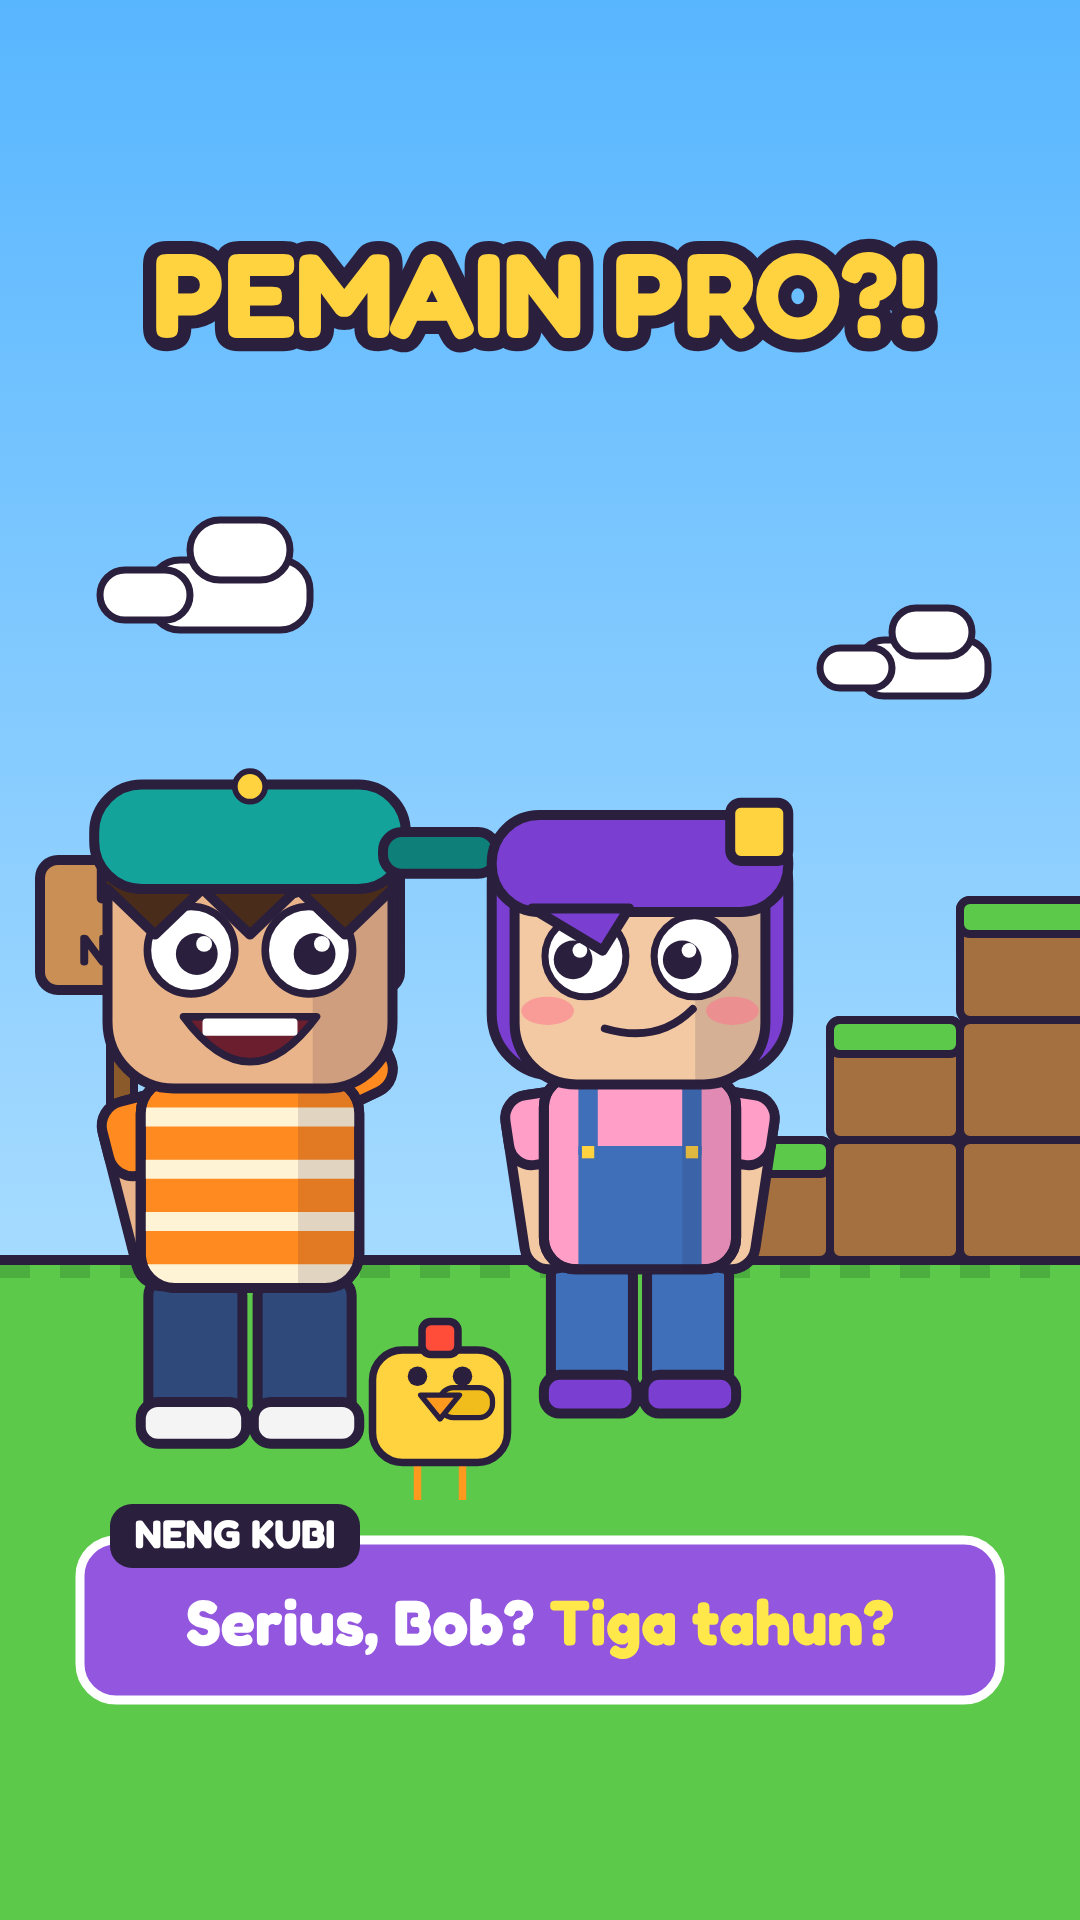
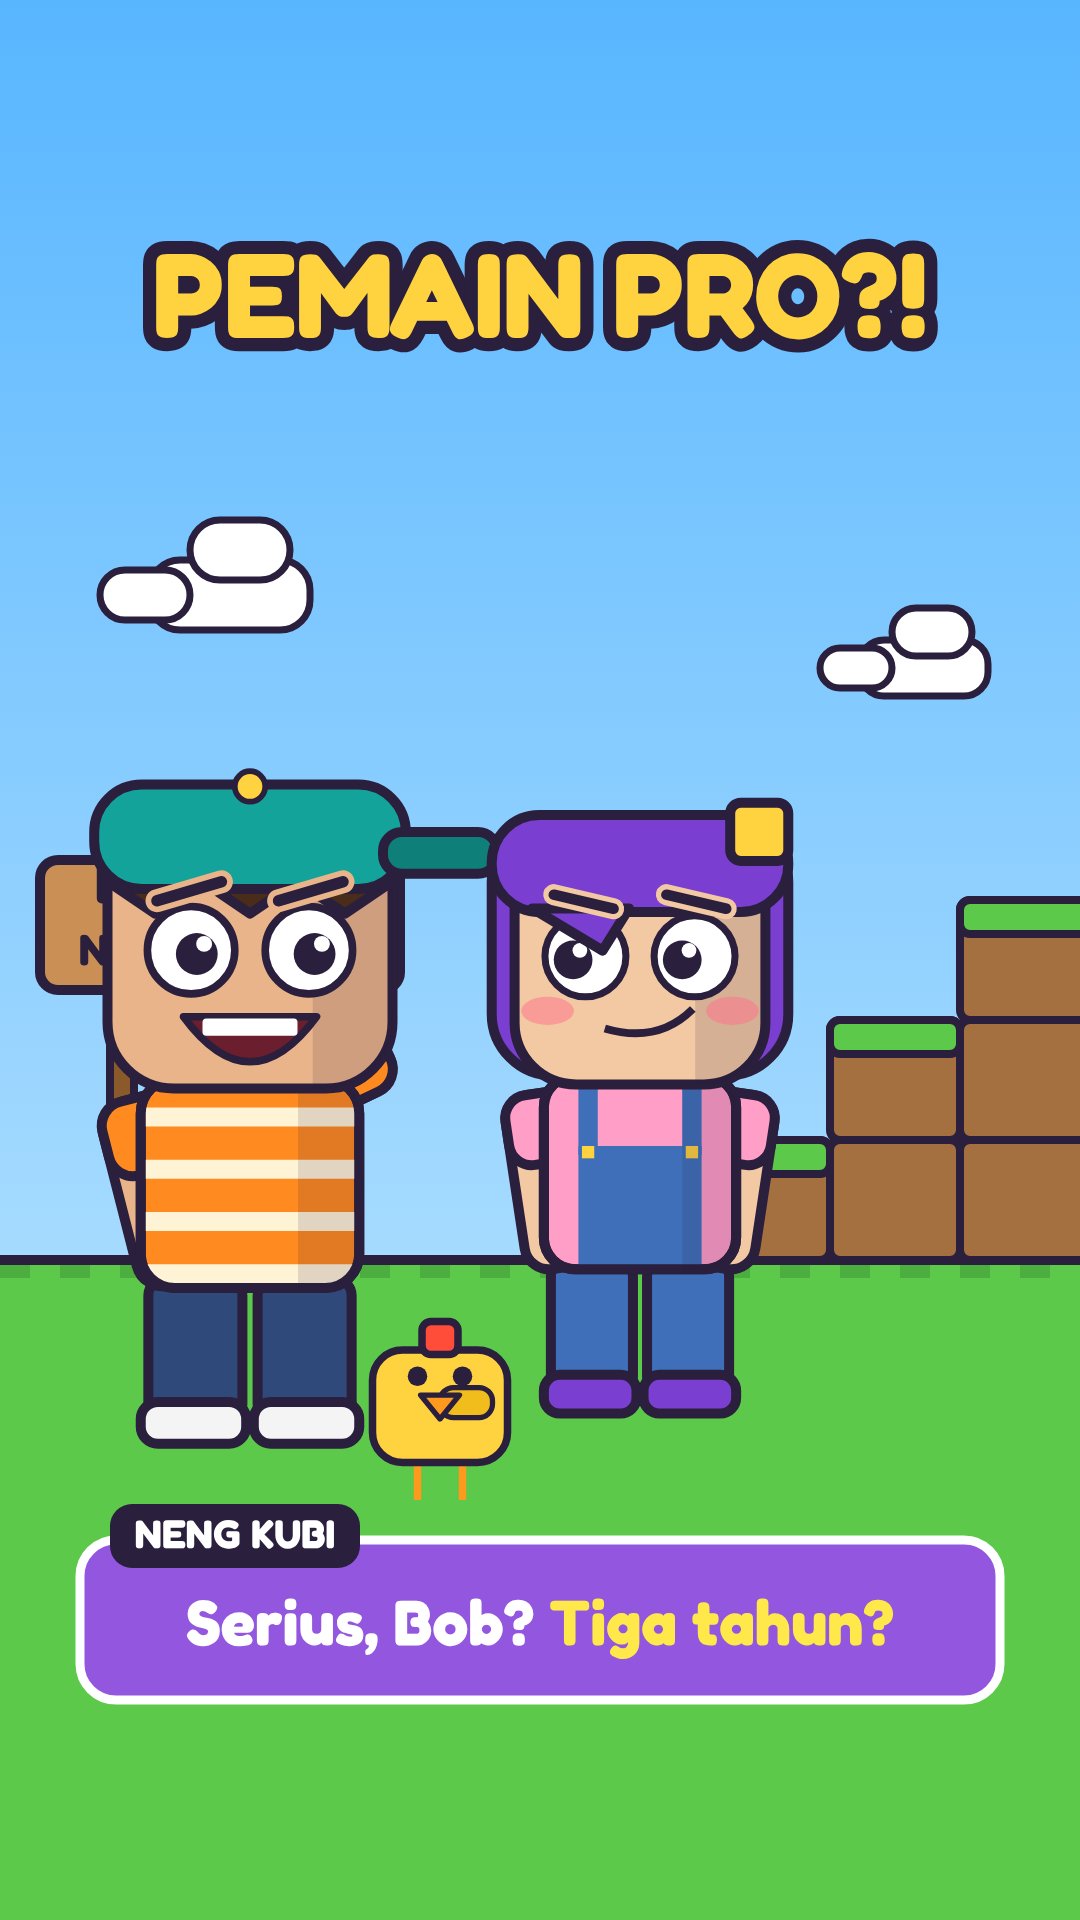
Skill /kotak-karakter + ekspresi baru (senang, mata bintang, nangis air mancur, panik, marah) dan lembar tokoh
Claude-Session: https://claude.ai/code/session_01BdHPDcapshDycrXUGefMAL

Changed region(s): [[0.0917, 0.4375, 0.3667, 0.5], [0.6111, 0.4375, 0.6722, 0.5], [0.4889, 0.4375, 0.5806, 0.5]]

diff --git a/engine/kotak2d/kotak2d.js b/engine/kotak2d/kotak2d.js
@@ -14,16 +14,21 @@ function eyes(cx, cy, s, o) {
     const ex = cx + k * 62 * s, er = 46 * s;
     circ(ex, cy, er); fs('#fff', 8 * s);
     if (o.eye === 'star') { star(ex, cy, er * .8, '#ffd23f'); return; }
+    if (o.eye === 'happy') { g.lineWidth = 11 * s; g.strokeStyle = INK; g.beginPath(); g.arc(ex, cy + er * .35, er * .6, Math.PI * 1.1, Math.PI * 1.9); g.stroke(); return; }
     if (o.eye === 'flat') { g.lineWidth = 9 * s; g.strokeStyle = INK; g.beginPath(); g.moveTo(ex - er * .7, cy); g.lineTo(ex + er * .7, cy); g.stroke(); return; }
     const pr = (o.eye === 'tiny' ? 11 : 22) * s;
     circ(ex + o.look * s, cy + 4 * s, pr); g.fillStyle = INK; g.fill();
     circ(ex + o.look * s + pr * .35, cy - pr * .3, pr * .38); g.fillStyle = '#fff'; g.fill();
   });
-  // alis
-  g.lineWidth = 12 * s; g.strokeStyle = INK; g.lineCap = 'round';
+}
+// alis digambar terakhir (di atas rambut) supaya ekspresi terbaca
+function brows(cx, cy, s, o, halo) {
   const b = o.brow || [0, 0];
-  [-1, 1].forEach((k, i) => { g.beginPath();
-    g.moveTo(cx + k * 30 * s, cy - 66 * s + b[i] * s); g.lineTo(cx + k * 98 * s, cy - 66 * s - b[i] * s); g.stroke(); });
+  const line = (w, col) => { g.lineWidth = w; g.strokeStyle = col; g.lineCap = 'round';
+    [-1, 1].forEach((k, i) => { g.beginPath();
+      g.moveTo(cx + k * 30 * s, cy - 62 * s + b[i] * s); g.lineTo(cx + k * 98 * s, cy - 62 * s - b[i] * s); g.stroke(); }); };
+  if (halo) line(24 * s, halo);
+  line(12 * s, INK);
 }
 function mouth(cx, cy, s, type) {
   g.lineWidth = 9 * s; g.strokeStyle = INK;
@@ -32,6 +37,12 @@ function mouth(cx, cy, s, type) {
   else if (type === 'shock') { rr(cx - 50 * s, cy - 22 * s, 100 * s, 112 * s, 44 * s); fs('#5a1426', 8 * s);
     g.save(); rr(cx - 50 * s, cy - 22 * s, 100 * s, 112 * s, 44 * s); g.clip();
     g.beginPath(); g.ellipse(cx, cy + 82 * s, 38 * s, 26 * s, 0, 0, 7); g.fillStyle = '#ff7f9c'; g.fill(); g.restore(); }
+  else if (type === 'open') { g.beginPath(); g.moveTo(cx - 75 * s, cy - 10 * s); g.lineTo(cx + 75 * s, cy - 10 * s);
+    g.quadraticCurveTo(cx + 70 * s, cy + 110 * s, cx, cy + 110 * s); g.quadraticCurveTo(cx - 70 * s, cy + 110 * s, cx - 75 * s, cy - 10 * s);
+    g.closePath(); fs('#5a1426', 8 * s);
+    g.save(); g.clip(); g.beginPath(); g.ellipse(cx, cy + 100 * s, 48 * s, 30 * s, 0, 0, 7); g.fillStyle = '#ff7f9c'; g.fill(); g.restore(); }
+  else if (type === 'wavy') { g.lineWidth = 9 * s; g.beginPath(); g.moveTo(cx - 60 * s, cy + 20 * s);
+    for (let i = 1; i <= 6; i++) g.lineTo(cx - 60 * s + i * 20 * s, cy + 20 * s + (i % 2 ? -14 : 0) * s); g.stroke(); }
   else if (type === 'smirk') { g.beginPath(); g.moveTo(cx - 40 * s, cy + 12 * s); g.quadraticCurveTo(cx + 20 * s, cy + 30 * s, cx + 60 * s, cy - 10 * s); g.stroke(); }
   else if (type === 'flat') { g.beginPath(); g.moveTo(cx - 40 * s, cy + 10 * s); g.lineTo(cx + 40 * s, cy + 10 * s); g.stroke(); }
 }
@@ -82,11 +93,19 @@ function head(x, y, s, o) {
   const f = o.face, cy = hy + hh * .48;
   if (f.blush) { g.fillStyle = 'rgba(255,110,140,.5)'; [-1, 1].forEach(k => { g.beginPath(); g.ellipse(x + k * 105 * s, cy + 62 * s, 30 * s, 16 * s, 0, 0, 7); g.fill(); }); }
   eyes(x, cy, s, f); mouth(x, cy + 70 * s, s, f.mouth);
+  if (f.tears) [-1, 1].forEach(k => {
+    const x0 = x + k * 62 * s, y0 = cy + 20 * s, cx1 = x + k * 230 * s, cy1 = cy - 170 * s, x1 = x + k * 300 * s, y1 = cy + 330 * s;
+    g.lineCap = 'round';
+    g.beginPath(); g.moveTo(x0, y0); g.quadraticCurveTo(cx1, cy1, x1, y1); g.lineWidth = 46 * s; g.strokeStyle = INK; g.stroke();
+    g.beginPath(); g.moveTo(x0, y0); g.quadraticCurveTo(cx1, cy1, x1, y1); g.lineWidth = 32 * s; g.strokeStyle = '#8fd3ff'; g.stroke();
+    for (let t = 0.12; t < 1; t += 0.11) { const u = 1 - t;
+      const px = u * u * x0 + 2 * u * t * cx1 + t * t * x1, py = u * u * y0 + 2 * u * t * cy1 + t * t * y1;
+      circ(px, py, 7 * s); g.fillStyle = '#e8f7ff'; g.fill(); } });
   if (f.sweat) { g.beginPath(); const sx = x + hw * .46, sy = hy + 60 * s; g.moveTo(sx, sy); g.quadraticCurveTo(sx + 26 * s, sy + 50 * s, sx, sy + 62 * s);
     g.quadraticCurveTo(sx - 26 * s, sy + 50 * s, sx, sy); fs('#8fd3ff', 6 * s); }
   if (o.who === 'bobi') { // rambut jabrik + topi tosca terbalik
     g.beginPath(); g.moveTo(hx - 6 * s, hy + 80 * s);
-    for (let i = 0; i <= 6; i++) g.lineTo(hx + i * hw / 6, hy + (i % 2 ? 118 : 70) * s);
+    for (let i = 0; i <= 6; i++) g.lineTo(hx + i * hw / 6, hy + (i % 2 ? 96 : 62) * s);
     g.lineTo(hx + hw + 6 * s, hy + 20 * s); g.lineTo(hx - 6 * s, hy + 20 * s); g.closePath(); fs('#4a2c1a');
     rr(hx - 14 * s, hy - 40 * s, hw + 28 * s, 110 * s, 50 * s); fs('#14a39a');
     rr(hx + hw - 10 * s, hy + 10 * s, 120 * s, 44 * s, 20 * s); fs('#0f8079');
@@ -99,6 +118,7 @@ function head(x, y, s, o) {
     rr(hx - 20 * s, hy - 70 * s, hw + 40 * s, 120 * s, 30 * s); fs('#27325a');
     rr(hx - 10 * s, hy + 34 * s, hw + 20 * s, 34 * s, 14 * s); fs('#1b2340');
     star(x, hy - 12 * s, 34 * s, '#ffd23f'); }
+  brows(x, cy, s, f, c.skin);
 }
 function piko(x, y, s, flip = 1) {
   g.save(); g.translate(x, y); g.scale(flip * s, s);
@@ -158,7 +178,7 @@ const SCENES = {
   b() {
     sky('#ffb44a', '#ff7a2f'); speed(540, 900, 'rgba(255,255,255,.28)', 'rgba(255,255,255,0)');
     g.save(); g.translate(540, 1500); g.scale(1.75, 1.75); g.translate(-540, -1500);
-    char(540, 1820, 1, { who: 'bobi', arms: [0.4, 0.4], face: { look: 0, eye: 'tiny', brow: [14, 14], mouth: 'shock', sweat: true } });
+    char(540, 1820, 1, { who: 'bobi', arms: [0.4, 0.4], face: { look: 0, eye: 'tiny', brow: [-16, -16], mouth: 'shock', sweat: true } });
     g.restore();
     narrTag(150);
     bigWord('NONTON DOANG.', 330, 118, '#ffffff');
@@ -172,10 +192,45 @@ const SCENES = {
     g.save(); g.translate(460, 1330); g.rotate(-Math.PI / 2);
     char(0, 0, 0.62, { who: 'bobi', arms: [3.0, 3.0], face: { look: 0, eye: 'flat', brow: [0, 0], mouth: 'flat' } });
     g.restore();
-    char(800, 1420, 1.0, { who: 'blok', arms: [0.2, 1.9], prop: 'whistle', face: { look: -16, brow: [-14, -14], mouth: 'shock' } });
+    char(800, 1420, 1.0, { who: 'blok', arms: [0.2, 1.9], prop: 'whistle', face: { look: -16, brow: [14, 14], mouth: 'shock' } });
     bigWord('PRIIIT!', 330, 150, '#ffffff');
     bubble('OM BLOK', 'rgba(40,70,160,.95)', 'Dilarang ', 'tiduran di sini!');
   },
+};
+// LEMBAR TOKOH: semua tokoh berdiri berjajar
+SCENES.tokoh = () => {
+  sky('#fff6e0', '#ffe2b8'); ground(1500);
+  bigWord('TOKOH KOTAK KOCAK', 180, 92);
+  char(200, 1560, 1.0, { who: 'bobi', arms: [0.2, 0.2], face: { look: 4, brow: [-10, 10], mouth: 'grin' } });
+  char(540, 1560, 0.97, { who: 'kubi', arms: [0.15, 0.15], face: { look: -8, brow: [8, -8], mouth: 'smirk', blush: true } });
+  char(880, 1560, 0.92, { who: 'blok', arms: [0.15, 0.15], face: { look: -6, brow: [12, 12], mouth: 'flat' } });
+  piko(560, 1820, 0.7, 1);
+  g.font = '700 46px Fredoka'; g.fillStyle = INK; g.textAlign = 'center';
+  [['BOBI', 200], ['NENG KUBI', 540], ['OM BLOK', 880]].forEach(([n, x]) => g.fillText(n, x, 1640));
+  g.fillText('PIKO', 700, 1770);
+};
+// LEMBAR EKSPRESI: 9 ekspresi Bobi
+SCENES.ekspresi = () => {
+  sky('#58b6ff', '#cfeeff');
+  bigWord('EKSPRESI BOBI', 150, 100);
+  const L = [
+    ['pede', { look: 6, brow: [-10, 10], mouth: 'grin' }],
+    ['senang', { eye: 'happy', brow: [6, 6], mouth: 'open', blush: true }],
+    ['kaget', { eye: 'tiny', brow: [-16, -16], mouth: 'shock' }],
+    ['mata bintang', { eye: 'star', brow: [10, 10], mouth: 'open' }],
+    ['nangis', { eye: 'normal', look: 0, brow: [-18, -18], mouth: 'open', tears: true }],
+    ['panik', { eye: 'tiny', brow: [-16, -16], mouth: 'wavy', sweat: true }],
+    ['curiga', { look: 18, brow: [-12, 12], mouth: 'smirk' }],
+    ['pingsan', { eye: 'flat', brow: [0, 0], mouth: 'flat' }],
+    ['marah', { look: 0, brow: [18, 18], mouth: 'wavy' }],
+  ];
+  L.forEach(([n, f], i) => {
+    const cx = 190 + (i % 3) * 350, cy = 560 + Math.floor(i / 3) * 520;
+    rr(cx - 165, cy - 290, 330, 470, 36); g.fillStyle = 'rgba(255,255,255,.55)'; g.fill();
+    g.save(); g.beginPath(); g.roundRect(cx - 165, cy - 290, 330, 470, 36); g.clip();
+    head(cx, cy + 80, 0.82, { who: 'bobi', face: Object.assign({ look: 0 }, f) }); g.restore();
+    g.font = '700 42px Fredoka'; g.fillStyle = INK; g.textAlign = 'center'; g.fillText(n.toUpperCase(), cx, cy + 140);
+  });
 };
 (async () => {
   await document.fonts.load('700 100px Fredoka'); await document.fonts.load('600 40px Fredoka');

diff --git a/.claude/skills/kotak-karakter/SKILL.md b/.claude/skills/kotak-karakter/SKILL.md
@@ -1,0 +1,84 @@
+---
+name: kotak-karakter
+description: Membuat, mengubah, atau menggambar tokoh kartun 2D bergaya blok (kepala kotak, garis tebal, ekspresi lebay) untuk channel Kotak Kocak, memakai engine kanvas di engine/kotak2d/. Pakai saat diminta membuat tokoh baru, ekspresi baru, adegan atau gambar tes Kotak Kocak, lembar tokoh, atau thumbnail bergaya blok.
+---
+
+# Kotak Karakter: tokoh blok 2D untuk Kotak Kocak
+
+Engine: `engine/kotak2d/kotak2d.js`, digambar dengan Canvas 2D ukuran 1080×1920. Render lewat Playwright.
+
+## Render
+
+```bash
+cd engine/kotak2d
+ln -sf "$(npm root -g)" node_modules   # sekali saja, kalau import playwright gagal
+node render.mjs tokoh,ekspresi,a,b,c   # → tes-<nama>.png
+```
+Setelah render, gabungkan beberapa PNG dengan `ffmpeg ... hstack` lalu **lihat hasilnya** sebelum melapor. Gambar yang akan dikirim ke pengguna disalin ke `branding/kotak-kocak/`.
+
+## Aturan gaya (wajib, supaya konsisten)
+
+- **Garis tepi** `INK = #2a1f3d`, tebal 10 px pada skala 1. Semua bentuk diisi dengan `fs(warna)`.
+- **Kepala** kotak membulat (radius 70), lebar 300 × tinggi 280 dikali `T[tokoh].W`. **Mata besar** (radius 46) dengan pupil dan titik kilau.
+- **Bayangan datar:** `shade()` menggelapkan 28% sisi kanan kepala dan badan. Tidak ada gradasi di tokoh.
+- **Alis digambar paling akhir** (`brows()` dengan halo warna kulit) supaya tidak tertutup rambut atau topi.
+  Arah `brow: [kiri, kanan]`: angka **positif** = ujung dalam turun (galak/marah), **negatif** = ujung dalam naik (cemas/kaget).
+- **Warna cerah dan jenuh**. Latar memakai gradasi langit, garis kecepatan (`speed()`), atau padang rumput blok.
+- **Teks:** font Fredoka 700. `bigWord()` untuk kata kunci, `bubble()` untuk dialog (label nama + kata kuning), `narrTag()` untuk narasi.
+
+## Tokoh tetap (`const T` + cabang `o.who` di `char()` dan `head()`)
+
+| who | Tokoh | Ciri tetap (jangan diubah) |
+|---|---|---|
+| `bobi` | Bobi | kulit #e9b48a, kaos oranye bergaris krem, topi tosca terbalik dengan kancing kuning, rambut jabrik cokelat tua |
+| `kubi` | Neng Kubi | kulit #f3c9a3, rambut kotak ungu #7a3fd1 dengan poni segitiga, jepit kuning, kaos pink + overall jeans |
+| `blok` | Om Blok | badan lebar (W 1.25), kulit #c98b5a, kumis kotak, topi satpam biru tua dengan bintang, rompi kuning bergaris reflektor |
+| — | Piko | `piko(x, y, s, flip)`: ayam kotak kuning, jengger merah, tidak bicara |
+
+**Menambah tokoh baru:**
+1. Tambahkan entri ke `T` (skin, pants, shoe, shirt, W).
+2. Tambahkan motif badan di `char()` dan rambut atau topi di `head()` dengan `if (o.who === '<nama>')`.
+3. Render `tokoh` untuk mengecek, lalu tambahkan tokohnya ke adegan `SCENES.tokoh`.
+4. Catat di tabel ini dan di `panduan/channel-dunia-kotak.md`.
+
+## Ekspresi (`face: {...}`)
+
+| Nama | face |
+|---|---|
+| pede | `{ look: 6, brow: [-10, 10], mouth: 'grin' }` |
+| senang | `{ eye: 'happy', brow: [6, 6], mouth: 'open', blush: true }` |
+| kaget | `{ eye: 'tiny', brow: [-16, -16], mouth: 'shock' }` |
+| mata bintang | `{ eye: 'star', brow: [10, 10], mouth: 'open' }` |
+| nangis air mancur | `{ brow: [-18, -18], mouth: 'open', tears: true }` |
+| panik | `{ eye: 'tiny', brow: [-16, -16], mouth: 'wavy', sweat: true }` |
+| curiga | `{ look: 18, brow: [-12, 12], mouth: 'smirk' }` |
+| pingsan | `{ eye: 'flat', brow: [0, 0], mouth: 'flat' }` |
+| marah | `{ brow: [18, 18], mouth: 'wavy' }` |
+
+Pilihan nilai:
+- `eye`: `normal`, `tiny`, `happy`, `star`, `flat`
+- `mouth`: `grin`, `open`, `shock`, `smirk`, `flat`, `wavy`
+- tambahan: `look` (geser pupil), `blush`, `sweat`, `tears`
+
+Ekspresi baru ditambahkan sebagai cabang baru di `eyes()` atau `mouth()`, lalu dimasukkan ke `SCENES.ekspresi`.
+
+## Membuat adegan
+
+Tambahkan fungsi baru di `SCENES`, misalnya `SCENES.d = () => {...}`. Urutan menggambar:
+1. latar (`sky`, `speed`, `ground`, `stairs`, `cloud`)
+2. tokoh, mulai dari yang paling belakang
+3. telop (`bigWord`, `bubble`, `narrTag`)
+
+Bagian layar yang dipakai:
+- teks besar di atas: y 150–350
+- tokoh: y 500–1450
+- subtitle: y ≈ 1540, supaya wajah tidak tertutup
+
+Tokoh tiarap: `g.translate` lalu `g.rotate(-Math.PI/2)` sebelum `char()`. Close-up: `g.scale(1.75)` di sekitar titik kaki.
+
+## Larangan (wajib)
+
+- **Jangan meniru tokoh channel lain.** Contohnya anak berambut cokelat dengan baju oranye bergambar petir dari channel animasi game populer. Gaya umum boleh (kepala kotak, mata besar, ekspresi lebay), desain tokoh orang lain tidak.
+- **Jangan pakai nama, logo, avatar, UI, atau bunyi khas game mana pun** ("Roblox", avatar "noob", bunyi "oof"), baik di gambar, teks, maupun judul.
+- **Tanpa merek asli** di kostum atau properti.
+- Semua aturan konten di `CLAUDE.md` tetap berlaku. Caption: "Konten komedi. Semua tokoh fiktif."
